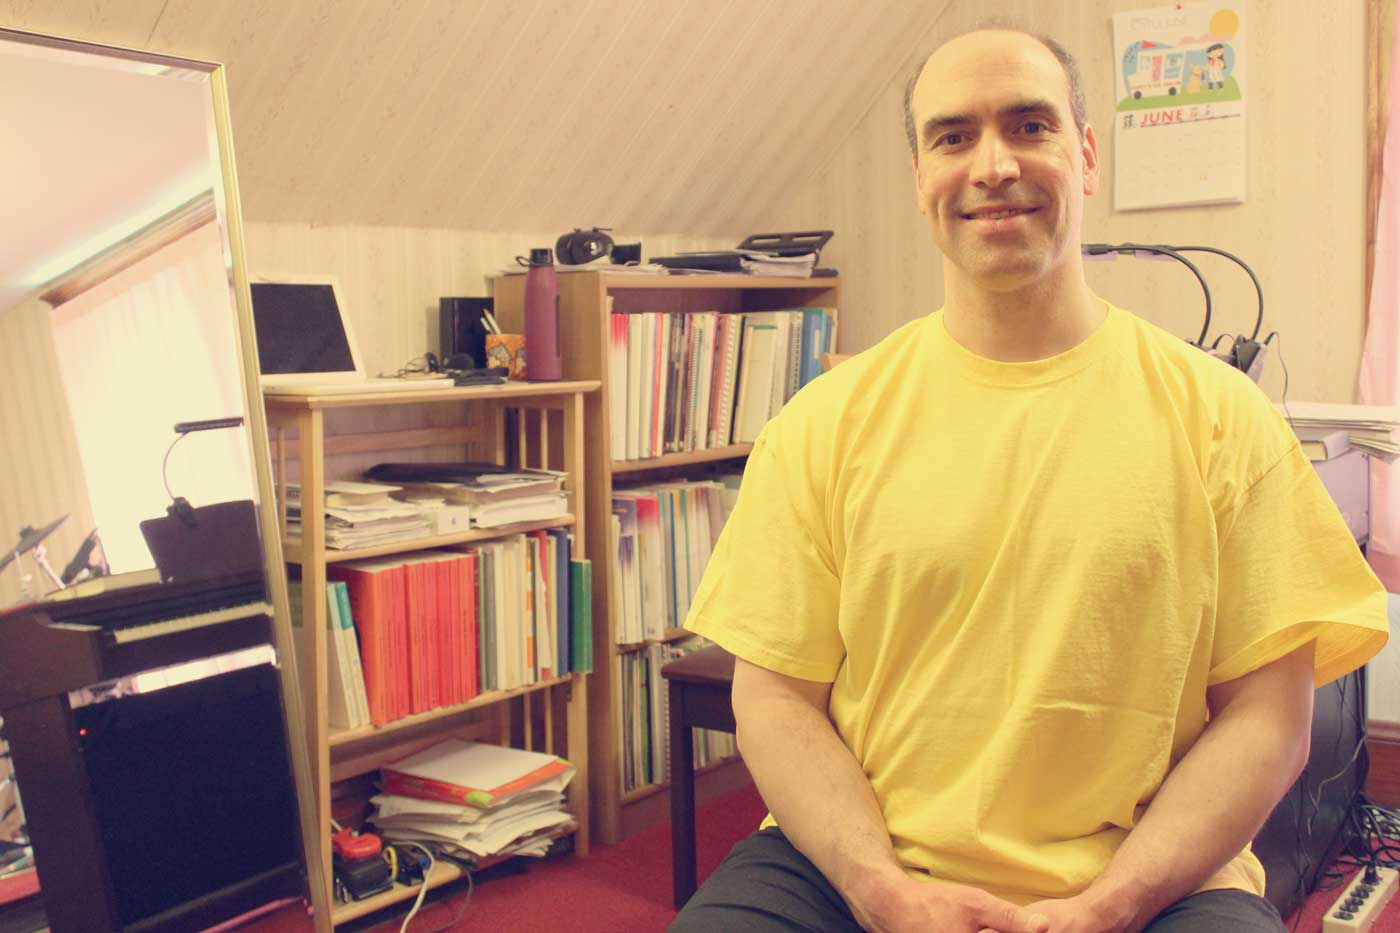
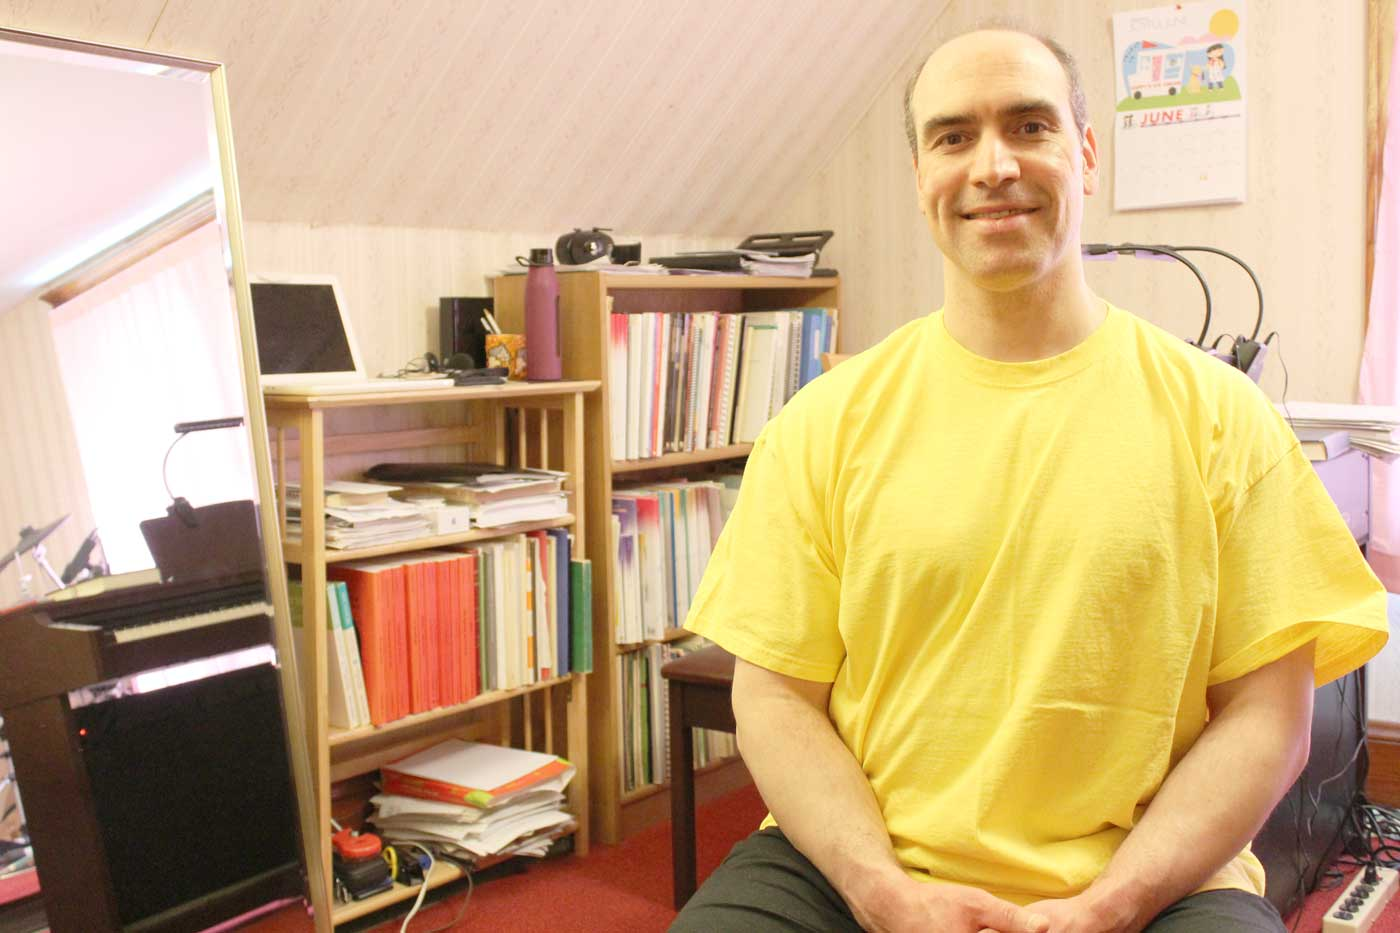
Switch to more natural background, tweak overlay

diff --git a/_sass/main.scss b/_sass/main.scss
@@ -192,7 +192,7 @@ body > section {
 
   .overlay {
     box-sizing: border-box;
-    background: rgba($headerColor, 0.6);
+    background: rgba(lighten($headerColor, 10%), 0.8);
     text-align: center;
     @include span-columns(8);
     padding: 12em 2em;
